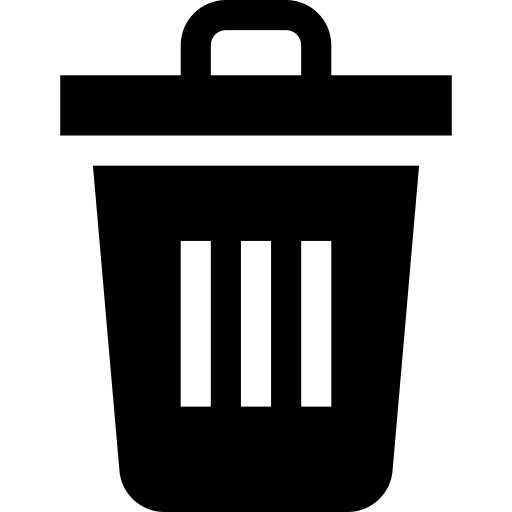
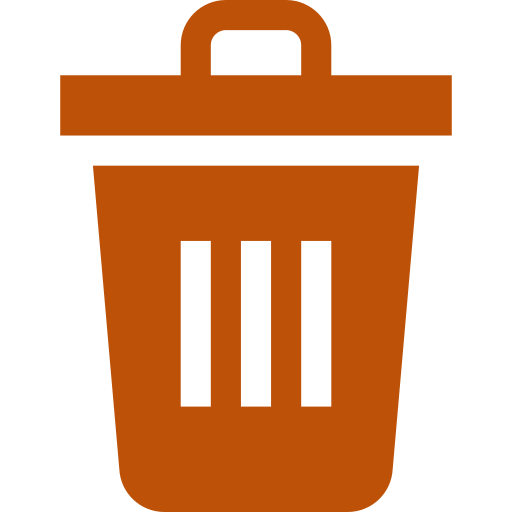
Color palette changed

diff --git a/dashboard/dashboard.html b/dashboard/dashboard.html
@@ -758,25 +758,25 @@
               <input type="checkbox" id=Spontaneous onclick='chartTreeCheckboxClicked(this)'>
               <label for=Spontaneous>Spontaneous BPM</label>
             </div>
-            <br>
-            <div style="background-color: var(--rsp_lightblue)">
-              <input type="checkbox" id=BTYPE onclick='chartTreeCheckboxClicked(this)'>
-              <label for=BTYPE>Breath Type</label>
-              <div class=chartIndentDiv>
-                <input type="checkbox" id=MBreath onclick='chartTreeCheckboxClicked(this)'>
-                <label for=MBreath>Mandatory Breath</label>
-              </div>
-              <div class=chartIndentDiv>
-                <input type="checkbox" id=SBreath onclick='chartTreeCheckboxClicked(this)'>
-                <label for=SBreath>Spontaneous Breath</label>
-              </div>
-              <div class=chartIndentDiv>
-                <input type="checkbox" id=EBreath onclick='chartTreeCheckboxClicked(this)'>
-                <label for=EBreath>Maintenance Breath</label>
-              </div>
-            </div>
-
           </div>
+          <br>
+          <div style="background-color: var(--rsp_lightblue)">
+            <input type="checkbox" id=BTYPE onclick='chartTreeCheckboxClicked(this)'>
+            <label for=BTYPE>Breath Type</label>
+            <div class=chartIndentDiv>
+              <input type="checkbox" id=MBreath onclick='chartTreeCheckboxClicked(this)'>
+              <label for=MBreath>Mandatory Breath</label>
+            </div>
+            <div class=chartIndentDiv>
+              <input type="checkbox" id=SBreath onclick='chartTreeCheckboxClicked(this)'>
+              <label for=SBreath>Spontaneous Breath</label>
+            </div>
+              <div class=chartIndentDiv>
+              <input type="checkbox" id=EBreath onclick='chartTreeCheckboxClicked(this)'>
+              <label for=EBreath>Maintenance Breath</label>
+            </div>
+          </div>
+
           <br>
           <div style="background-color: var(--rsp_lightblue);">
             <input type="checkbox" id=Compliances onclick='chartTreeCheckboxClicked(this)'>

diff --git a/analyzer/analyzer.html b/analyzer/analyzer.html
@@ -121,7 +121,8 @@
         <div class=shadowDiv5 style="background-color:var(--rsp_mediumgreen); color:white; font-size:1.1rem; ">
           <center>
             <p style="margin-bottom:0;margin-top:12px; background-color:var(--rsp_green);padding-bottom:5px;"><b>RECORDED DATA</b></p>
-            <table style="border-collapse:unset; border:none; font-size:1.1rem; width:100%; margin-top:10px;">
+            <table style="border-collapse:unset; border:none; font-size:1.1rem; width:100%;
+            margin-top:10px;color:var(--rsp_darkblue);">
               <tr>
                 <td align="left">&nbspBreaths</td>
                 <td id=logNumBreaths align="center">--</td>
@@ -137,7 +138,7 @@
             </table>
             <br>
             <p style="margin-bottom:0;background-color:var(--rsp_green);padding-bottom:5px;"><b>ANALYSIS WINDOW</b></p>
-            <table style="border-collapse:unset; border:none; font-size:1.1rem; width:100%; margin-top:10px;">
+            <table style="border-collapse:unset; border:none; font-size:1.1rem; width:100%; margin-top:10px;color:var(--rsp_darkblue);">
               <tr>
                 <td align="left">&nbspBreathRange</td>
                 <td id=selectedBreathRange align="center">--</td>

diff --git a/common/js/palette.js b/common/js/palette.js
@@ -1,0 +1,37 @@
+// ////////////////////////////////////////////////////
+// Author
+// ////////////////////////////////////////////////////
+
+var palette = {
+  darkblue
+  mediumblue
+  blue
+  lightblue
+  brightblue
+  darkgreen
+  green
+  mediumgreen
+  lightgreen
+  brightgreen
+  yellow
+  orange
+  darkred
+};
+
+window.onload = function () {
+  var style = getComputedStyle(document.body)
+  
+  palette.darkblue = style.getPropertyValue('--rsp_darkblue');
+  palette.mediumblue = style.getPropertyValue('--rsp_mediumblue');
+  palette.blue = style.getPropertyValue('--rsp_blue');
+  palette.lightblue = style.getPropertyValue('--rsp_lightblue');
+  palette.brightblue = style.getPropertyValue('--rsp_brightblue');
+  palette.darkgreen = style.getPropertyValue('--rsp_darkgreen');
+  palette.green = style.getPropertyValue('--rsp_green');
+  palette.mediumgreen = style.getPropertyValue('--rsp_mediumgreen');
+  palette.lightgreen = style.getPropertyValue('--rsp_lightgreen');
+  palette.brightgreen = style.getPropertyValue('--rsp_brightgreen');
+  palette.yellow = style.getPropertyValue('--rsp_yellow');
+  palette.orange = style.getPropertyValue('--rsp_orange');
+  palette.darkred = style.getPropertyValue('--rsp_darkred');
+}

diff --git a/common/js/iconButton.js b/common/js/iconButton.js
@@ -3,7 +3,7 @@
 // ////////////////////////////////////////////////////
 
 function selectButtonHTML(onClickFunction, size, title) {
-  pngFileName = "select";
+  pngFileName = "check";
   return iconButtonHTML(pngFileName, size, onClickFunction, title);
 }
 
@@ -57,7 +57,7 @@ function outIconBtn(btn) {
 
 function overIconBtn(btn) {
   var style = getComputedStyle(document.body)
-  bgd = style.getPropertyValue('--rsp_lightblue');
+  bgd = style.getPropertyValue('--rsp_brightgreen');
   btn.style.backgroundColor = bgd;
   btn.style.borderColor = bgd;
   btn.firstElementChild.style.backgroundColor = bgd;

diff --git a/common/css/iconButton.css b/common/css/iconButton.css
@@ -19,14 +19,14 @@
 }
 
 .iconButton:hover{
-  background-color: var(--rsp_lightblue);
-  border-color: var(--rsp_lightblue);
+  background-color: var(--rsp_brightgreen);
+  border-color: var(--rsp_brightgreen);
   opacity:1; 
 }
 
 .iconButton:active{
-  background-color: var(--rsp_blue);
-  border-color: var(--rsp_blue);
+  background-color: var(--rsp_mediumgreen);
+  border-color: var(--rsp_mediumgreen);
   box-shadow: 0 6px white;
   transform: translateY(4px);
 }

diff --git a/common/css/noUi.css b/common/css/noUi.css
@@ -6,7 +6,7 @@
 
 .noUi-connect {
     background-color: var(--rsp_brightgreen);
-    cursor: crosshair;
+    cursor: pointer;
     border-style: outset;
     border-width: 2px;
 }
@@ -29,7 +29,7 @@
 
 .noUi-handle {
     background-color: var(--rsp_lightgreen);
-    cursor: ew-resize;
+    cursor: grab;
     border-style: outset;
     border-width: 2px;
 }

diff --git a/dashboard/js/dashboard.js b/dashboard/js/dashboard.js
@@ -619,7 +619,7 @@ function outIconButton(btn) {
 
 function overIconButton(btn) {
   var style = getComputedStyle(document.body)
-  bgd = style.getPropertyValue('--rsp_lightblue');
+  bgd = style.getPropertyValue('--rsp_brightgreen');
   btn.style.backgroundColor = bgd;
   btn.style.borderColor = bgd;
   //console.log("hover");

diff --git a/dashboard/js/dashGlobals.js b/dashboard/js/dashGlobals.js
@@ -3,7 +3,7 @@
 // ////////////////////////////////////////////////////
 
 const TIMEOUT_INTERVAL_IN_MS = 200;
-const BLINK_INTERVAL_IN_MS = 1000;
+const BLINK_INTERVAL_IN_MS = 3000;
 const MAX_DWEET_INTERVAL_IN_MS = 30000;
 const MAX_DORMANT_CLOSE_DURATION_IN_MS = 60000;
 const INIT_RECORDING_INTERVAL_IN_MS = 5000;

diff --git a/analyzer/js/analyzer.js b/analyzer/js/analyzer.js
@@ -614,7 +614,7 @@ function outIconButton(btn) {
 
 function overIconButton(btn) {
   var style = getComputedStyle(document.body)
-  bgd = style.getPropertyValue('--rsp_lightblue');
+  bgd = style.getPropertyValue('--rsp_brightgreen');
   btn.style.backgroundColor = bgd;
   btn.style.borderColor = bgd;
 }
